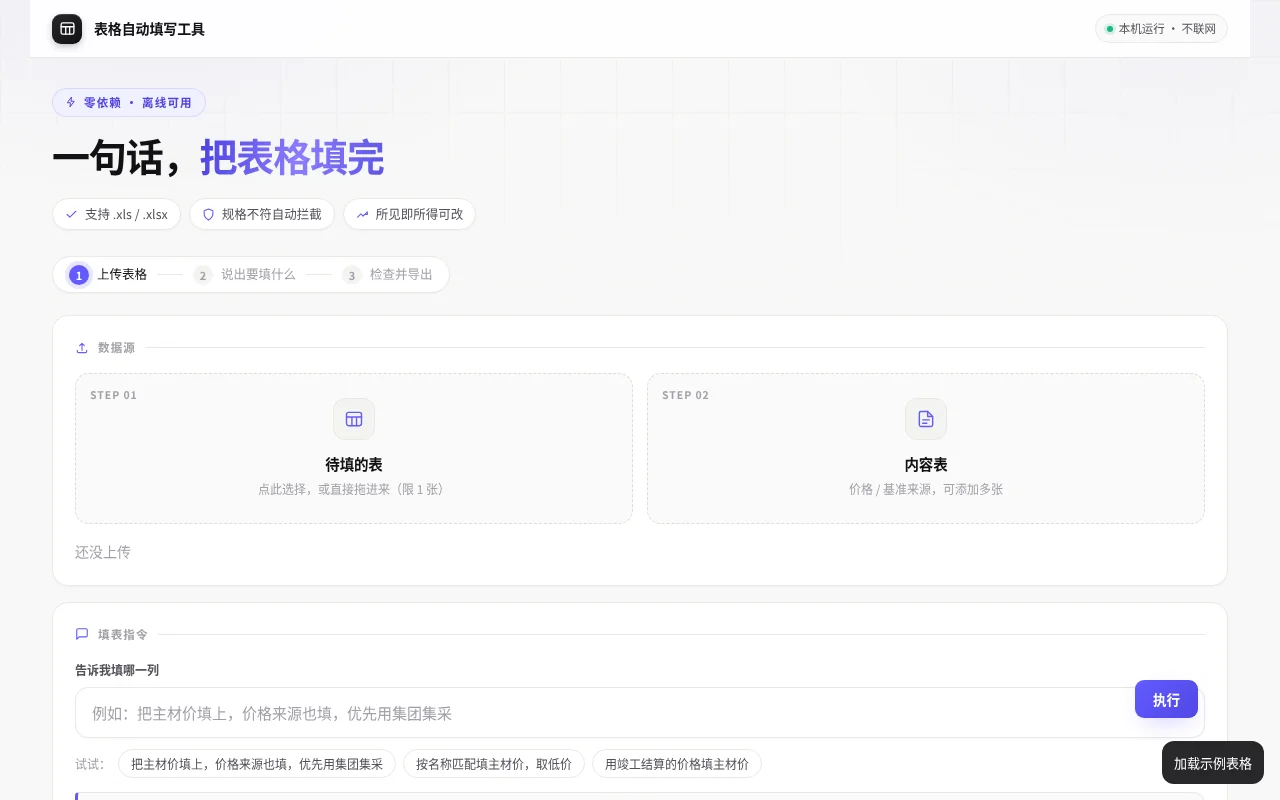
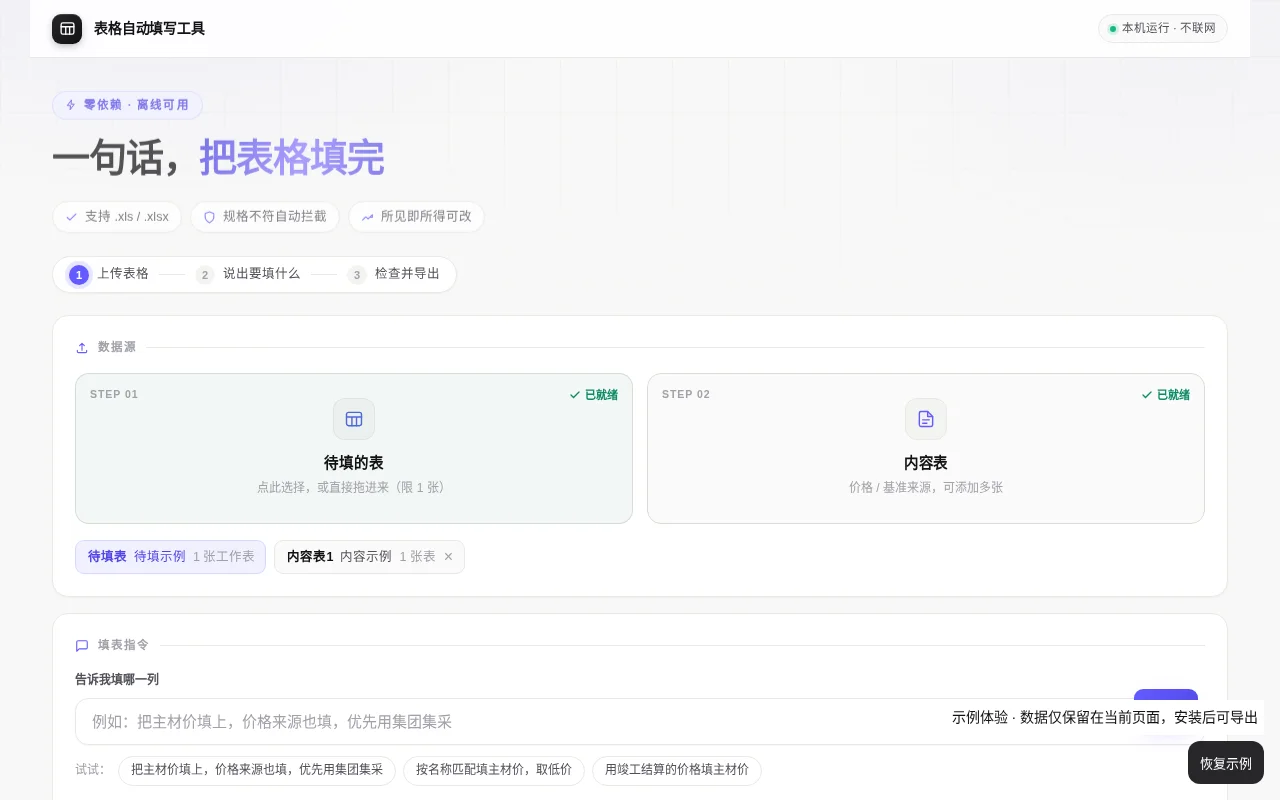
Add spreadsheet filling template

diff --git a/3ca86885a662a0c5fbcf0273/showcase/preview.html b/3ca86885a662a0c5fbcf0273/showcase/preview.html
@@ -2080,7 +2080,7 @@
     render();
   }
 
-  global.FillApp = { S: S, run: run, readAny: readAny, buildRows: buildRows, init: init };
+  global.FillApp = { S: S, run: run, readAny: readAny, loadFiles: loadFiles, buildRows: buildRows, init: init };
   if (typeof document !== "undefined") {
     if (document.readyState === "loading") document.addEventListener("DOMContentLoaded", init);
     else init();
@@ -2110,7 +2110,7 @@
 <button id="demoLoad" style="position:fixed;right:16px;bottom:16px;z-index:9999;padding:12px;border:0;border-radius:12px;background:#27272a;color:white;cursor:pointer">恢复示例</button><span style="position:fixed;right:16px;bottom:65px;z-index:9999;background:white;padding:6px">示例体验 · 数据仅保留在当前页面，安装后可导出</span><script>
 document.getElementById('demoLoad').onclick=async function(){
 this.disabled=true; document.dispatchEvent(new Event('demo-reset'));
[2 lines of base64/hex data omitted]
 this.disabled=false;
-}; document.getElementById('demoLoad').click();</script></body>
+}; document.addEventListener('DOMContentLoaded', () => document.getElementById('demoLoad').click());</script></body>
 </html>
